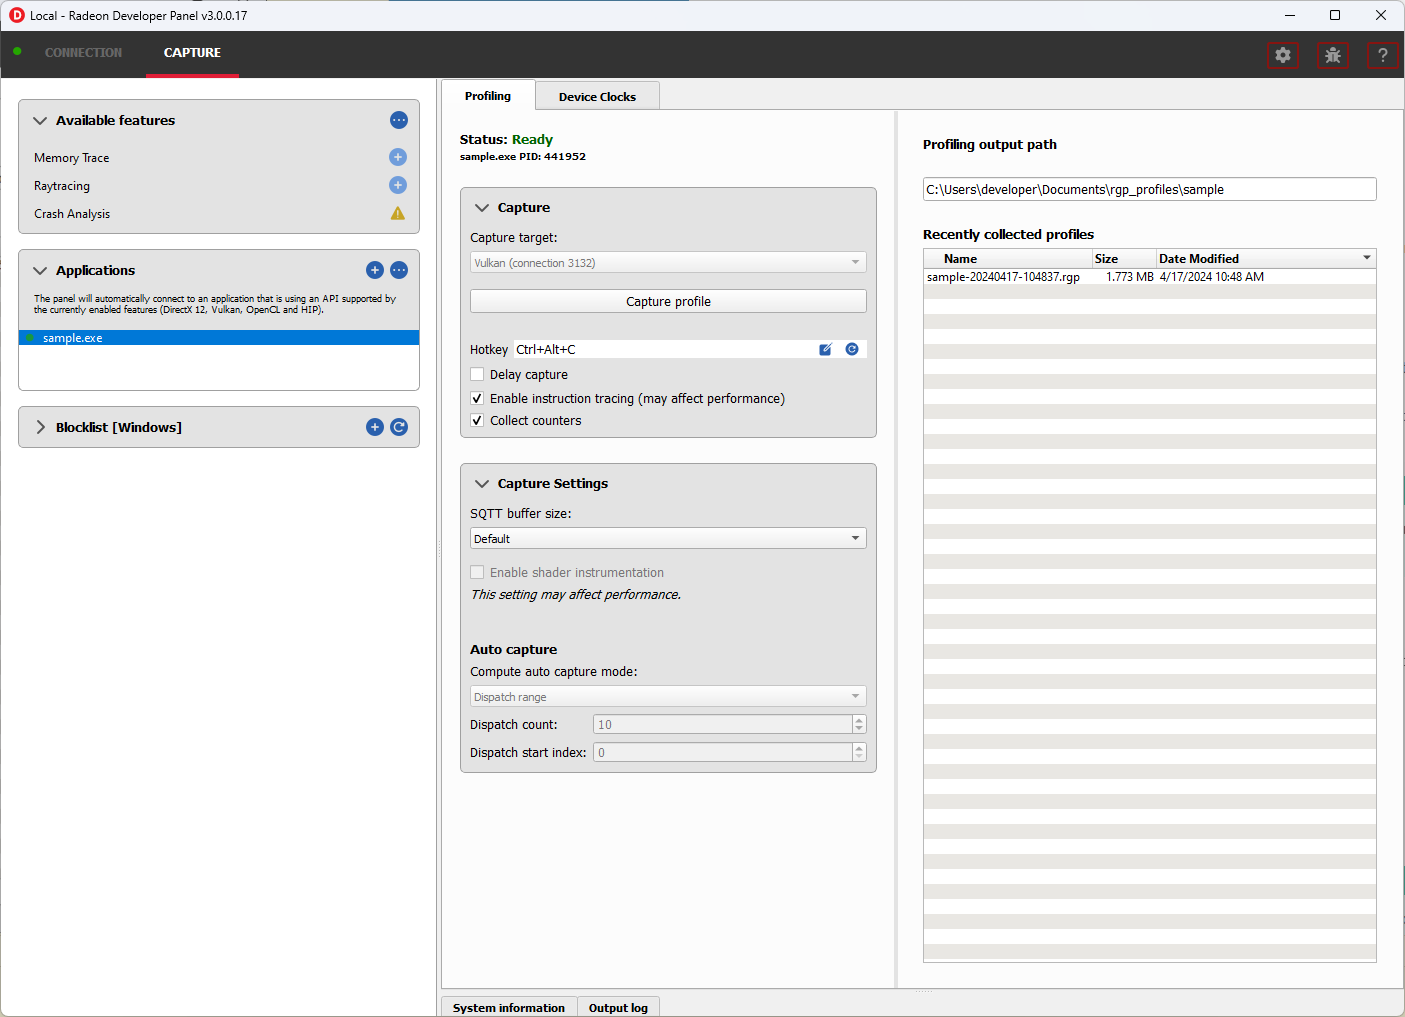
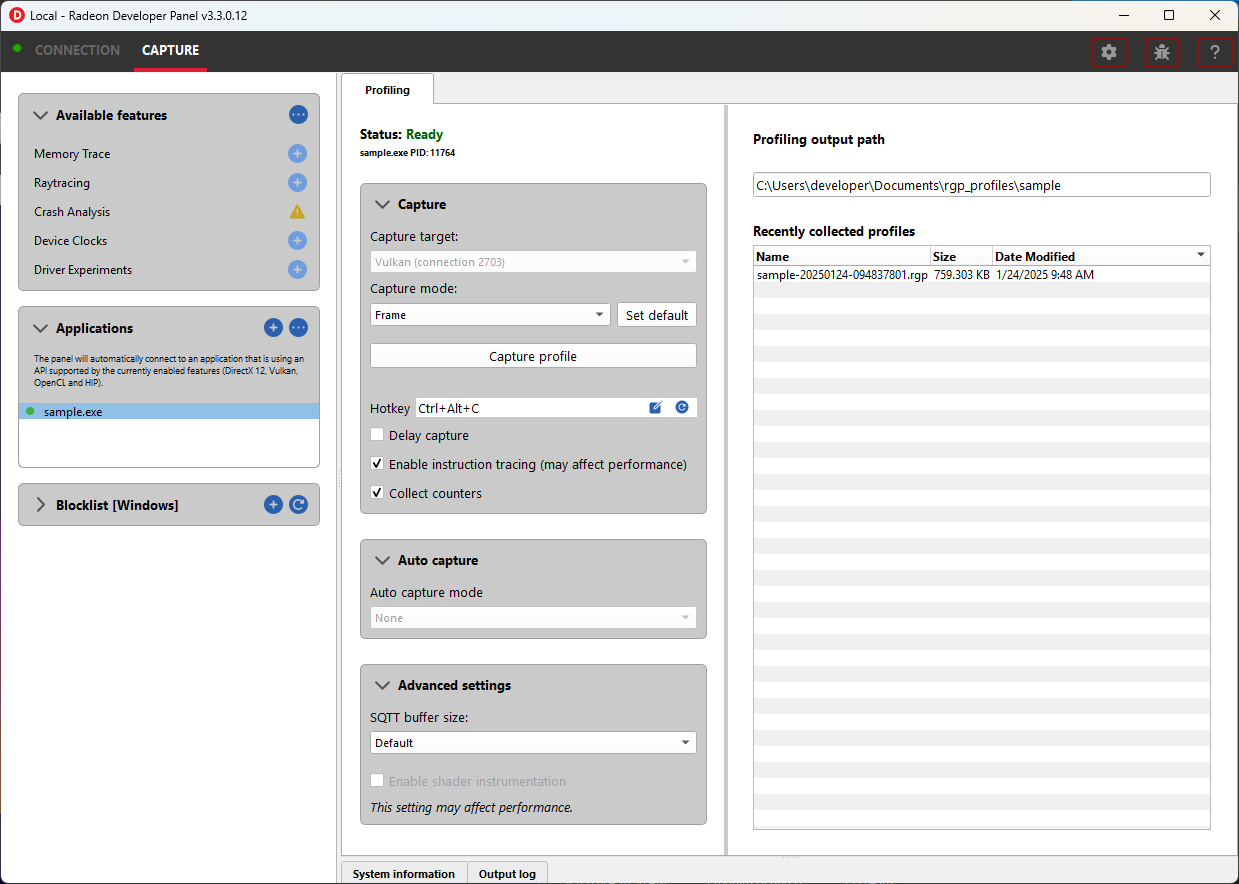
Update documentation for 3.3 release

diff --git a/docs/source/conf.py b/docs/source/conf.py
@@ -58,9 +58,9 @@ author = u'AMD Developer Tools'
 # built documents.
 #
 # The short X.Y version.
-version = u'3.2.0'
+version = u'3.3.0'
 # The full version, including alpha/beta/rc tags.
-release = u'3.2.0'
+release = u'3.3.0'
 
 # The language for content autogenerated by Sphinx. Refer to documentation
 # for a list of supported languages.

diff --git a/docs/source/features.rst b/docs/source/features.rst
@@ -12,18 +12,37 @@ The **Capture** section has the following items for profiling:
 
 - **Capture target** - Selects the driver connection that should be profiled when a capture is triggered.
 
+- **Capture mode** - Displays options for which profiling capture mode should be used
+
+   * **Frame** - Capture draws and dispatches that occur within a frame.
+
+   * **Dispatch** - Capture a number of dispatches. This option uses the *Dispatch Count* value from **Dispatch range** auto capture options.
+
 - **Capture profile** - Captures a profile and writes to disk.
 
 - **Enable instruction tracing** - Enables capturing detailed instruction data.
 
-- **Collect counters** - Enables capturing GPU cache counter data. Systems with an AMD Radeon RX 6000 or AMD Radeon RX 7000 series GPU will also collect raytracing counter data.
+- **Collect counters** - Enables capturing GPU cache counter data. Systems with an AMD Radeon RX 6000, AMD Radeon RX 7000, or AMD Radeon RX 9000 series GPU will also collect raytracing counter data.
 
 - **Delay capture** - If this is enabled, pressing the capture profile button or triggering the hotkey will first wait the entered number of milliseconds before capturing a profile.
 
 
 .. NOTE:: Enabling capture of detailed instruction data may adversely affect performance.
 
-The **Capture Settings** section has the following options for profiling:
+The **Auto capture** section has the following options for profiling:
+
+- **Auto capture mode**:
+   * Displays configuration options for auto capturing of profiles.
+
+   * **None** uses the selected capture mode when clicking the **Capture profile** button.
+
+   * **Frame** allows for specifying a specific frame index to trigger capture on.
+
+   * **Dispatch range** allows for setting the start and stop dispatch indices to use during automatic profile capture.
+
+   * **Dispatch timer** allows for specifying the number of dispatches to capture after a specified elapsed time.
+
+The **Advanced settings** section has the following options for profiling:
 
 - **SQTT Buffer Size**:
    * Defines the size of the buffer where SQTT data will be stored.
@@ -32,16 +51,6 @@ The **Capture Settings** section has the following options for profiling:
 
 - **Enable shader instrumentation**
    * Enables support for capturing more detailed shader instrumentation data.
-
-- **Auto capture**:
-   * Displays configuration options for the trigger mode and dispatch range for profile capture.
-
-   * **None** uses the default capture mode where clicking the **Capture profile** button will immediately
-     capture the requested number of dispatches.
-
-   * **Dispatch range** allows for setting the start and stop dispatch indices to use during automatic profile capture.
-
-   * **Timer** allows for specifying the number of dispatches to capture after a specified elapsed time.
 
 .. NOTE::
    To reduce the chance of truncated profile data, OpenCL profiling is limited to 10000 dispatches
@@ -173,7 +182,7 @@ This feature enables capturing a GPU crash summary using **Radeon GPU Detective*
 
     **OS**: Windows® 10 or Windows® 11
 
-    **GPU supported**: AMD Radeon RX 6000 or AMD Radeon RX 7000 series GPU
+    **GPU supported**: AMD Radeon RX 6000, AMD Radeon RX 7000, or AMD Radeon RX 9000 series GPU
 
     **Minimum supported driver**: AMD Radeon Adrenalin Software Driver version 23.7.2
 
@@ -196,6 +205,14 @@ a few settings that can be configured in the capture settings pane shown here:
 - **Expand all execution marker nodes**
 
    If checked, all execution marker nodes in the marker tree will be expanded.
+
+The **Analysis options** section lists configuration options:
+
+- **Enable hardware crash analysis**
+
+   When enabled, RGD collects low-level information about the GPU hardware state 
+   upon crash and augments the information that is presented in the Crash Analysis (.rgd) output
+   file with meaningful insights.
 
 Once active, a GPU crash dump will be created once a TDR occurs.
 
@@ -443,26 +460,33 @@ DXR shaders on AMD GPUs can be compiled in one of two modes. It can be observed 
     time it takes to compile the pipeline state object but may improve the performance when executing this shader.
 
 The decision is made by the shader compiler based on some heuristics with the goal of reaching maximum performance.
-It should not change the logic. This experiment forces the compiler to always choose the Indirect mode. If activating this
+It should not change the logic. This experiment forces the compiler to always choose the Indirect mode.
+
+If activating this
 experiment shortens the time it takes for a game to launch and load while it creates Pipeline State Objects (PSOs), it
 indicates that the creation of ray tracing PSOs takes significant amount of this time. For the fastest loading times,
-PSO creation should be done in multiple background threads, and a pipeline library should be used to cache them.
+PSO creation should be done in multiple background threads.
+
 If activating this experiment fixes a bug: a CPU crash or hang on PSO creation, GPU crash on shader execution,
 or incorrect results returned, it indicates a bug in the shader compiler.
 
 **Disable shader cache**
 
-Shader compilation happens in two stages. First, high level shader language (HLSL or GLSL) is compiled to an
-intermediate representation independent of the GPU and defined by the graphics API
-(DXIL in DirectX 12, SPIR-V in Vulkan). This should happen offline when the application is prepared to release to end
-users. The second stage happens in the graphics driver when a pipeline state object is created. The intermediate
-representation is then compiled to the assembly (ISA) appropriate for the specific GPU. This typically happens at
-runtime (e.g. when a game is launched or loads a level) and can take significant time. To optimize this process,
-compiled shaders are cached at multiple levels. Developers are encouraged to use a pipeline library available in the
-D3D12 API, but the driver also caches compiled shaders at the low level.
+Shader compilation happens in two stages.
+
+1. First, high level shader language (HLSL or GLSL) is compiled to an
+   intermediate representation independent of the GPU and defined by the graphics API
+   (DXIL in DirectX 12, SPIR-V in Vulkan). This should happen offline when the application is prepared to release to end
+   users.
+2. The second stage happens in the graphics driver when a pipeline state object (PSO) is created. The intermediate
+   representation is then compiled to the assembly (ISA) appropriate for the specific GPU. This typically happens at
+   runtime (e.g. when a game is launched or loads a level) and can take significant time. To optimize this process,
+   compiled shaders are cached by the driver.
 
 This experiment disables the shader cache implemented by the driver. It should not change the logic, but it can impact
-the duration of PSO creation. If activating this experiment makes the application launch and load much longer, it can
+the duration of PSO creation.
+
+If activating this experiment makes the application launch and load much longer, it can
 indicate the creation of the application PSOs take significant time that is optimized thanks to the cache, but new users
 would experience it the first time they launch the application. Activating this experiment will make PSO
 behave like it would on a system that has never run the application before. This can provide a more reliable measurement
@@ -474,6 +498,28 @@ Safety features
 Experiments in this group generally offer extra safety features that can decrease performance, but can make the
 application more correct and stable. Activating safety features can help expose errors in the code that
 could potentially cause instability in an application.
+
+**Disable color texture compression**
+
+GPUs utilize internal compression formats for textures. This should not be confused with general data compression file
+formats (like ZIP) or algorithms (like Deflate), or with explicit block-compressed texture pixel formats
+(like BC6, ASTC). Internal compression formats are lossless, opaque to developers and are used to improve performance.
+Internal compression formats typically increase, rather than decrease, texture sizes in memory because additional
+space is needed for metadata, Such compression is typically used on render-target and depth-stencil textures.
+A decision whether a texture should be compressed is made by the driver based on some heuristics with the goal of
+achieving maximum performance. It can be observed in RGP, on the Render/depth targets tab, DCC column.
+
+Compressed textures may be more sensitive to incorrect data. Textures must be correctly initialized with either the
+``Clear``, ``Copy`` or ``DiscardResource`` operation so that the compression metadata is valid. Not using these
+operations causes undefined results, as textures can be created in a place where memory may contain garbage data,
+e.g. created as placed in a larger memory heap where another resource existed before, or aliasing memory with some
+other resource used in a disjoint period throughout each render frame. Overwriting the whole texture using a shader
+as a render target or UAV doesn’t count as proper initialization. In such case, visual artifacts can remain,
+or it can even lead to a GPU crash.
+
+This experiment disables compression of textures other than depth-stencil, typically render targets. If activating this
+experiment fixes a bug like a visual artifact visible on the screen, it can indicate incorrect initialization of the
+texture – missing ``Clear``, ``Copy``, or a missing or incorrect barrier.
 
 **Disable depth-stencil texture compression**
 

diff --git a/docs/source/index.rst b/docs/source/index.rst
@@ -75,6 +75,8 @@ Graphics APIs, RDNA hardware, and operating systems
 
 \ **Supported RDNA hardware**
 
+-  AMD Radeon RX 9000 series
+
 -  AMD Radeon RX 7000 series
 
 -  AMD Radeon RX 6000 series
@@ -103,6 +105,8 @@ Compute APIs, RDNA hardware, and operating systems
 -  HIP
 
 \ **Supported RDNA hardware**
+
+-  AMD Radeon RX 9000 series
 
 -  AMD Radeon RX 7000 series
 
